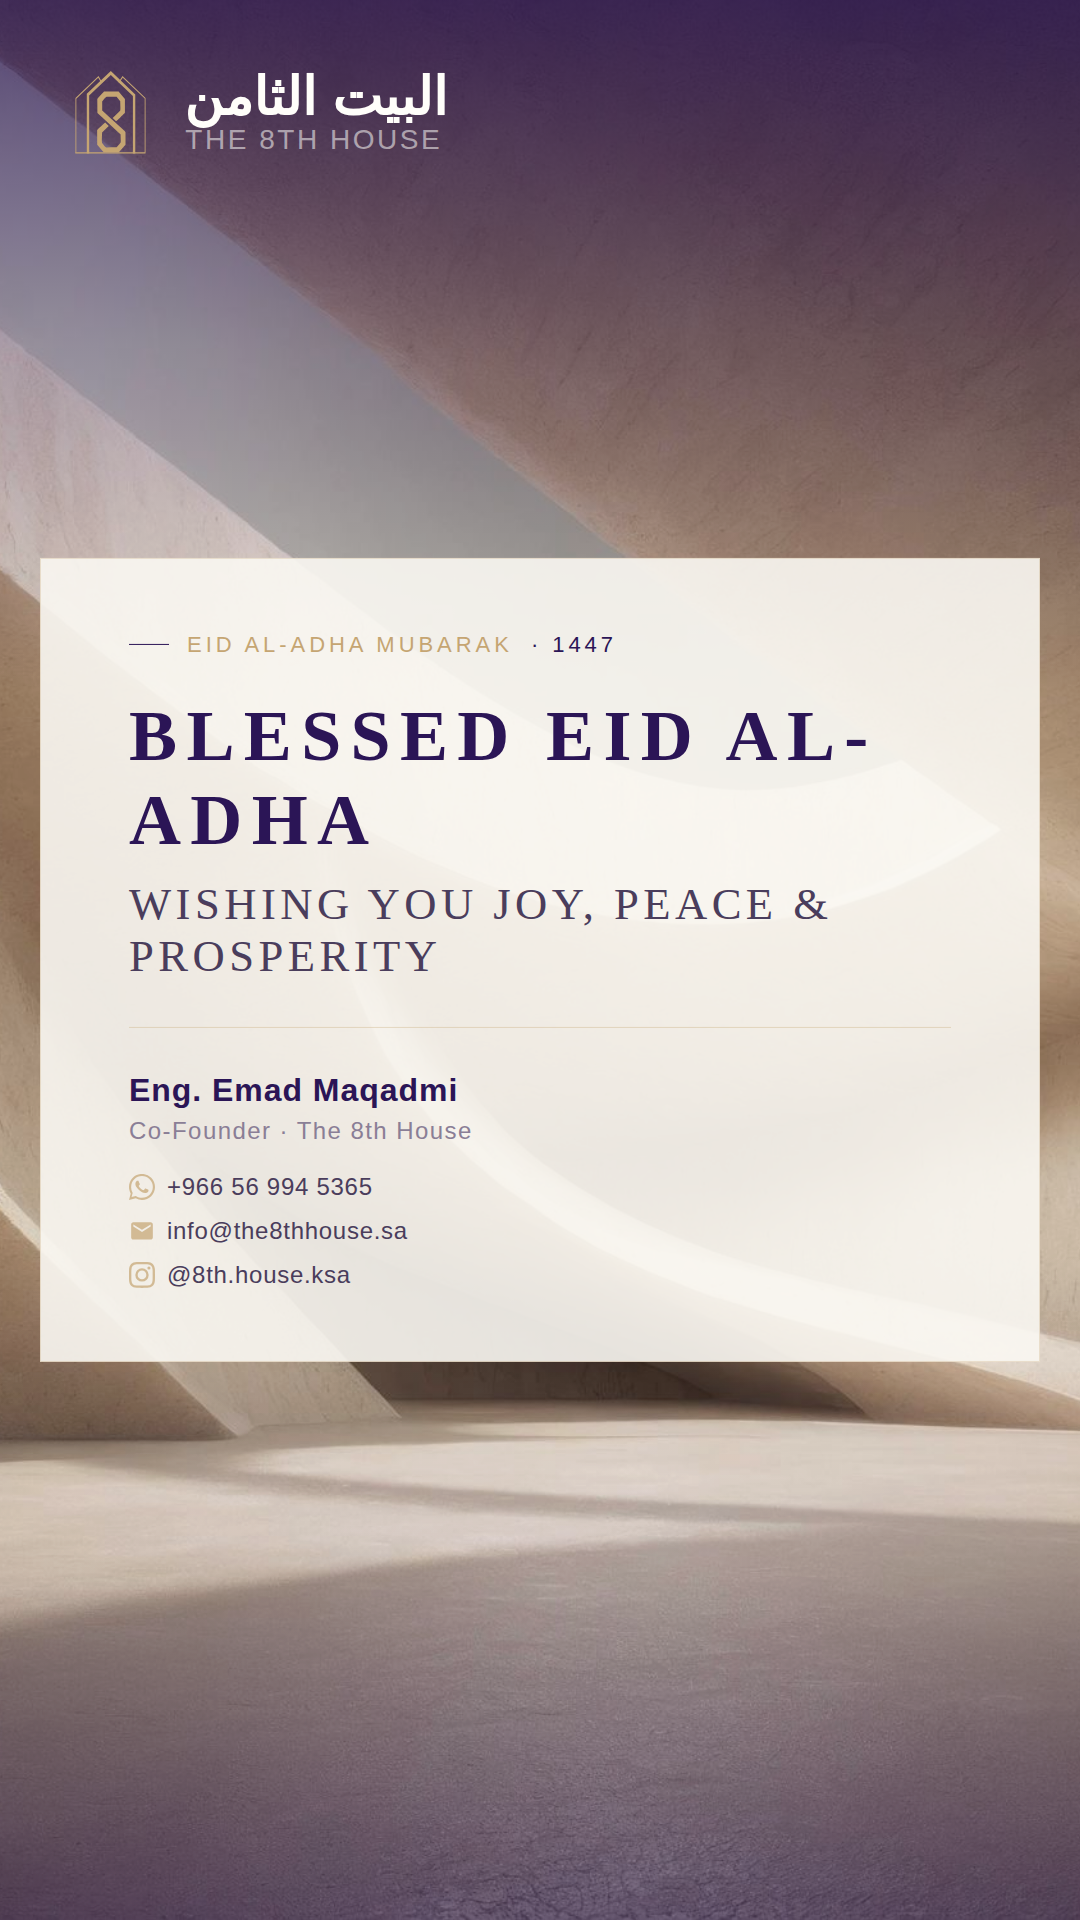
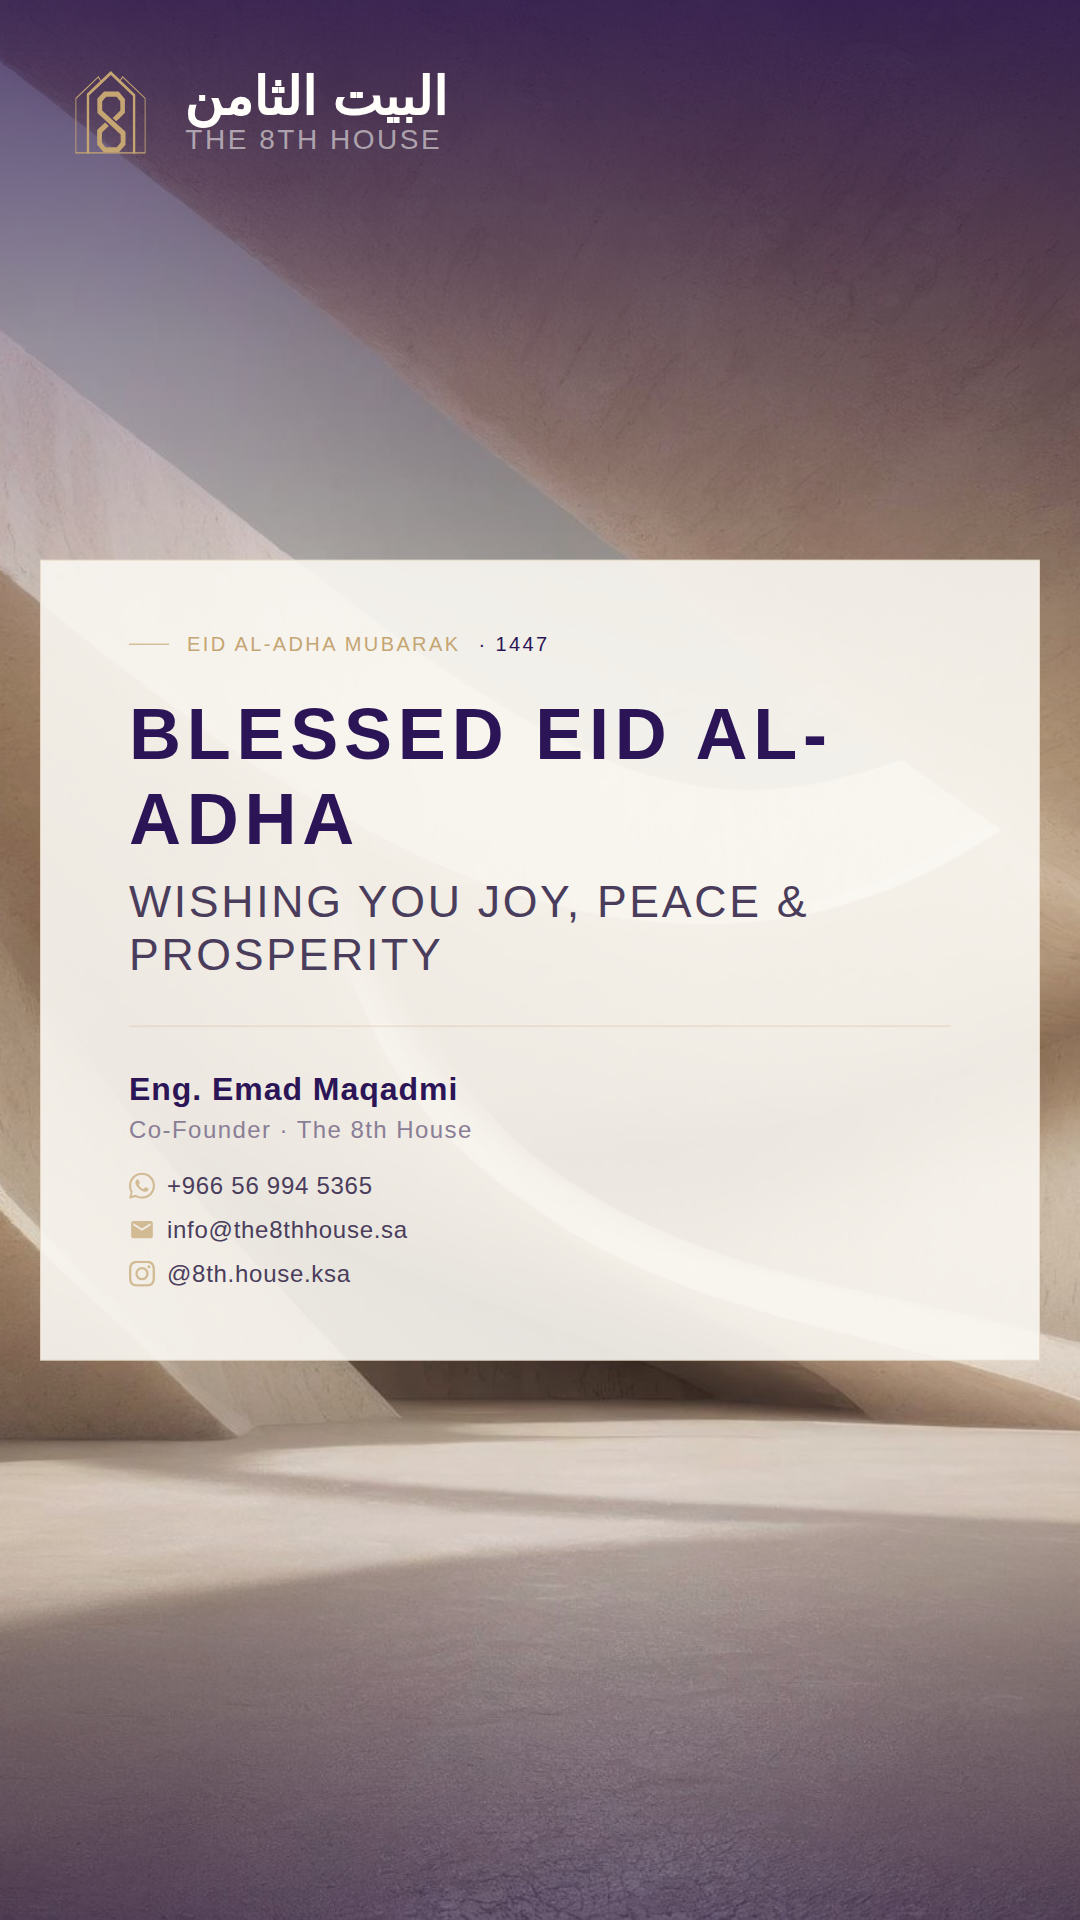
Switch title font to El Messiri; fix RTL/LTR text alignment across all three cards
https://claude.ai/code/session_01CSSTbXjfUtb6qJ2tW8hjCv

diff --git a/eid-cards.html b/eid-cards.html
@@ -3,7 +3,7 @@
 <head>
   <meta charset="UTF-8">
   <title>بطاقات المعايدة · البيت الثامن</title>
-  <link href="https://fonts.googleapis.com/css2?family=Almarai:wght@300;400;700;800&family=Amiri:wght@400;700&display=swap" rel="stylesheet">
+  <link href="https://fonts.googleapis.com/css2?family=Almarai:wght@300;400;700;800&family=El+Messiri:wght@400;500;600;700&display=swap" rel="stylesheet">
   <script src="https://cdnjs.cloudflare.com/ajax/libs/html2canvas/1.4.1/html2canvas.min.js"></script>
   <style>
     :root {
@@ -149,17 +149,18 @@
 
     /* label */
     .card__lbl {
-      display: inline-flex;
+      display: flex;
       align-items: center;
       gap: 18px;
       font-size: 22px;
-      letter-spacing: .18em;
-      text-transform: uppercase;
+      letter-spacing: .06em;
       color: var(--purple-royal);
       margin-bottom: 36px;
+      width: 100%;
     }
-    .card__lbl-rule { display: inline-block; width: 40px; height: 1px; background: var(--purple-royal); }
+    .card__lbl-rule { display: inline-block; width: 40px; height: 1px; background: var(--gold); flex-shrink: 0; }
     .card__lbl-city { color: var(--gold); }
+    .card--en .card__lbl { direction: ltr; letter-spacing: .12em; text-transform: uppercase; font-size: 20px; }
 
     /* main title */
     .card__title {
@@ -173,48 +174,51 @@
       flex-direction: column;
       gap: .2em;
     }
-    .card__title-main { color: var(--purple-royal); font-weight: 700; font-size: 1em; font-family: 'Amiri', serif; }
-    .card__title-rest { color: var(--text-secondary); font-size: .62em; font-weight: 400; font-family: 'Amiri', serif; letter-spacing: .01em; }
+    .card__title-main { color: var(--purple-royal); font-weight: 700; font-size: 1em; font-family: 'El Messiri', sans-serif; }
+    .card__title-rest { color: var(--text-secondary); font-size: .62em; font-weight: 400; font-family: 'El Messiri', sans-serif; letter-spacing: .01em; }
 
     /* divider */
     .card__div { width: 100%; height: 1px; background: rgba(197,165,114,.35); margin: 44px 0; }
 
-    /* sender — stacked vertically */
+    /* sender — stacked vertically, inherits direction from .card__body */
     .card__sender { display: flex; flex-direction: column; align-items: flex-start; gap: 8px; margin-bottom: 28px; }
     .card__sender-name  { font-size: 32px; font-weight: 700; color: var(--purple-royal); letter-spacing: .03em; }
     .card__sender-dot   { display: none; }
     .card__sender-title { font-size: 24px; font-weight: 300; color: var(--text-muted); letter-spacing: .06em; }
 
-    /* contact — stacked vertically */
-    .card__contact { display: flex; flex-direction: column; align-items: flex-start; gap: 16px; direction: ltr; }
-    .card__ci { display: flex; align-items: center; gap: 14px; font-size: 24px; font-weight: 300; color: var(--text-secondary); letter-spacing: .03em; white-space: nowrap; }
+    /* contact — stacked vertically, full-width rows, each row always LTR (phone/email/handle) */
+    .card__contact { display: flex; flex-direction: column; gap: 16px; }
+    .card__ci { display: flex; align-items: center; gap: 12px; font-size: 24px; font-weight: 300; color: var(--text-secondary); letter-spacing: .03em; white-space: nowrap; direction: ltr; }
     .card__ci svg { width: 26px; height: 26px; opacity: .7; flex-shrink: 0; }
     .card__csep { display: none; }
-    .card__ci { display: flex; align-items: center; gap: 12px; font-size: 24px; font-weight: 300; color: var(--text-secondary); letter-spacing: .03em; white-space: nowrap; }
-    .card__ci svg { width: 26px; height: 26px; opacity: .7; flex-shrink: 0; }
-    .card__csep   { width: 5px; height: 5px; border-radius: 50%; background: rgba(197,165,114,.5); }
+
+    /* bilingual row for mixed card */
+    .card__sender-bilingual { display: flex; justify-content: space-between; align-items: baseline; width: 100%; gap: 20px; }
+    .card__sender-name--en  { direction: ltr; font-size: 26px; font-weight: 600; color: var(--text-secondary); font-family: 'El Messiri', sans-serif; }
+    .card__sender-title--en { direction: ltr; font-size: 20px; color: var(--text-muted); }
 
     /* ══════════════════════════════════════════════
        ENGLISH variant
     ══════════════════════════════════════════════ */
-    .card--en .card__body    { direction: ltr; }
-    .card--en .card__title   { direction: ltr; }
-    .card--en .card__lbl     { direction: ltr; }
+    .card--en .card__body    { direction: ltr; text-align: left; }
+    .card--en .card__title   { direction: ltr; text-align: left; }
     .card--en .card__sender  { direction: ltr; align-items: flex-start; }
-    .card--en .card__contact { align-items: flex-start; }
+    .card--en .card__contact { direction: ltr; }
 
-    /* en title mirrors hero__sub */
+    /* en title */
     .card--en .card__title-main {
+      font-family: 'El Messiri', sans-serif;
       font-weight: 700;
-      letter-spacing: .13em;
+      letter-spacing: .08em;
       text-transform: uppercase;
       color: var(--text-primary);
     }
     .card--en .card__title-rest {
+      font-family: 'El Messiri', sans-serif;
       color: var(--text-secondary);
-      letter-spacing: .1em;
+      letter-spacing: .06em;
       text-transform: uppercase;
-      font-weight: 300;
+      font-weight: 400;
     }
 
     /* ══════════════════════════════════════════════
@@ -228,6 +232,8 @@
       letter-spacing: .12em;
       text-transform: uppercase;
       direction: ltr;
+      text-align: left;
+      width: 100%;
       margin-top: .1em;
     }
   </style>
@@ -415,10 +421,14 @@
     </h1>
     <div class="card__div"></div>
     <div class="card__sender">
-      <span class="card__sender-name">المهندس عماد مقادمي &nbsp;·&nbsp; Eng. Emad Maqadmi</span>
-    </div>
-    <div class="card__sender" style="margin-bottom:1rem;">
-      <span class="card__sender-title">شريك مؤسس · Co-Founder · البيت الثامن · The 8th House</span>
+      <div class="card__sender-bilingual">
+        <span class="card__sender-name">المهندس عماد مقادمي</span>
+        <span class="card__sender-name card__sender-name--en">Eng. Emad Maqadmi</span>
+      </div>
+      <div class="card__sender-bilingual">
+        <span class="card__sender-title">شريك مؤسس · البيت الثامن</span>
+        <span class="card__sender-title card__sender-title--en">Co-Founder · The 8th House</span>
+      </div>
     </div>
     <div class="card__contact">
       <div class="card__ci">
